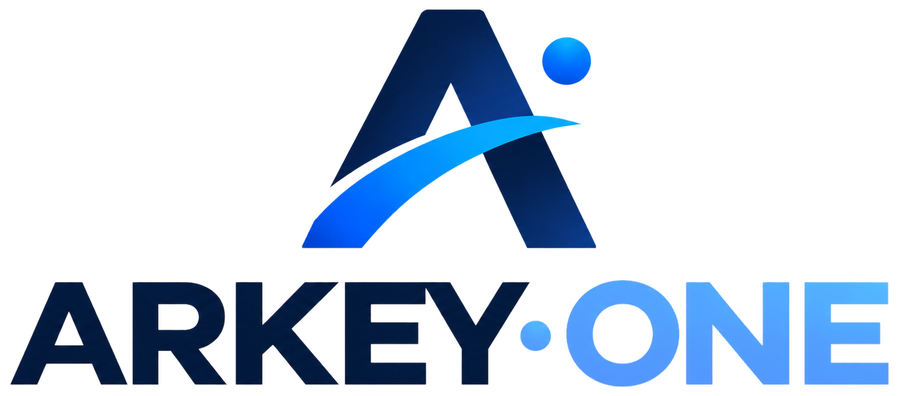
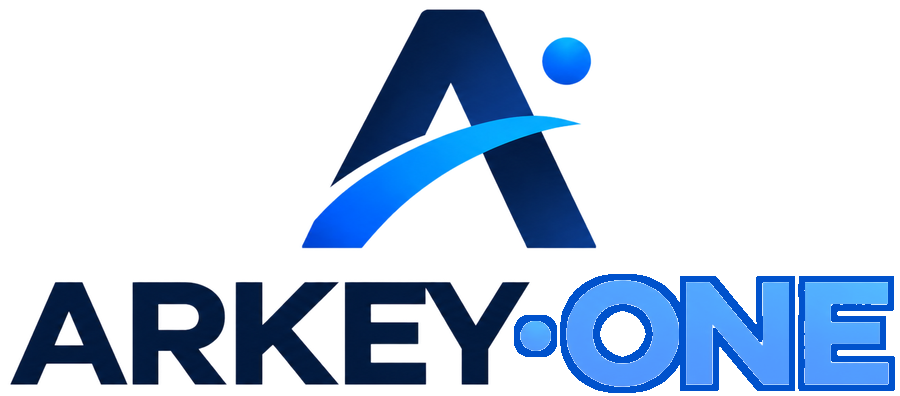
Login: contorno azul a ONE, centrar contenido en web/móvil, limpiar campos tras crear cuenta
- arkeyone-lockup.png: se agrega un contorno azul fuerte (#0052CC,
  ~6px a resolución fuente) alrededor de "ONE" y el separador --
  probado contra fondos claros y oscuros, se lee bien en ambos casos
  sin depender de reforzar el scrim.
- Web: el bloque de marca (headline/features/cita/pie) ahora se centra
  horizontalmente igual que el logo, en vez de quedar left-aligned
  mientras el logo estaba centrado.
- Móvil: el bloque logo+tarjeta+pie ahora se centra verticalmente como
  una unidad (antes el logo se anclaba arriba con mt-10 y el pie se
  empujaba al fondo con mt-auto); el espacio entre el logo/eslogan y
  la tarjeta se recorta (mb-6 -> mb-4).
- Crear cuenta: al crearse la cuenta con éxito, se limpian los campos
  de correo/contraseña/confirmar en vez de dejarlos con lo capturado.

Changed region(s): [[0.56, 0.6667, 0.9956, 1.0]]

diff --git a/src/components/auth/LoginWeb.jsx b/src/components/auth/LoginWeb.jsx
@@ -54,7 +54,7 @@ export default function LoginWeb({ onCreateAccount, onForgotPassword }) {
 
       {/* ---- Panel de marca ---- */}
       <div className="hidden lg:flex flex-col relative z-10 flex-[1.3] min-w-[420px] px-14 py-11 text-white">
-        <div className="relative z-10 flex flex-col justify-center h-full">
+        <div className="relative z-10 flex flex-col items-center justify-center h-full">
           <div className="w-full max-w-[420px] flex flex-col items-center mb-7">
             <ArkeyOneLogo width={230} />
             <p className="mt-2.5 text-base font-medium text-white/90 text-center">
@@ -62,7 +62,7 @@ export default function LoginWeb({ onCreateAccount, onForgotPassword }) {
             </p>
           </div>
 
-          <h2 className="text-[36px] leading-tight font-bold max-w-[420px] mb-6 text-white drop-shadow-sm">
+          <h2 className="text-[36px] leading-tight font-bold max-w-[420px] mb-6 text-white text-center drop-shadow-sm">
             Todo en un solo lugar,<br />
             para una vida con más{' '}
             <span style={{ color: '#7cc4ff' }}>claridad.</span>
@@ -77,11 +77,11 @@ export default function LoginWeb({ onCreateAccount, onForgotPassword }) {
             ))}
           </ul>
 
-          <p className="text-[17px] italic font-medium text-white drop-shadow-sm mt-7">
+          <p className="text-[17px] italic font-medium text-white text-center drop-shadow-sm mt-7">
             "Organiza hoy, vive un mejor mañana."
           </p>
 
-          <p className="text-[10.5px] tracking-[.14em] font-semibold text-white/70 mt-5">
+          <p className="text-[10.5px] tracking-[.14em] font-semibold text-white/70 text-center mt-5">
             TECNOLOGÍA PARA UNA VIDA CON SENTIDO
           </p>
         </div>

diff --git a/src/components/auth/LoginMobile.jsx b/src/components/auth/LoginMobile.jsx
@@ -86,10 +86,10 @@ export default function LoginMobile({ platform: platformProp, onCreateAccount, o
       </div>
 
       <div
-        className="relative z-10 flex-1 flex flex-col px-6"
-        style={{ paddingTop: 'calc(18px + env(safe-area-inset-top, 0px))' }}
+        className="relative z-10 flex-1 flex flex-col justify-center px-6"
+        style={{ paddingTop: 'calc(18px + env(safe-area-inset-top, 0px))', paddingBottom: 'calc(18px + env(safe-area-inset-bottom, 0px))' }}
       >
-        <div className="flex flex-col items-center text-center mt-10 mb-6">
+        <div className="flex flex-col items-center text-center mb-4">
           <ArkeyOneLogo width={195} />
           <p className="text-sm font-medium text-white/90 mt-2.5 drop-shadow-sm">Ordena tu mundo, mejora tu vida.</p>
         </div>
@@ -230,7 +230,7 @@ export default function LoginMobile({ platform: platformProp, onCreateAccount, o
           </p>
         </form>
 
-        <div className="mt-auto text-center py-4" style={{ paddingBottom: 'calc(16px + env(safe-area-inset-bottom, 0px))' }}>
+        <div className="text-center mt-6">
           <span className="text-[12.5px] font-semibold text-white drop-shadow-sm">Más orden. Más vida.</span>
           <div className="w-[34px] h-[2.5px] rounded mt-2 mx-auto" style={{ background: '#60A5FA' }} />
         </div>

diff --git a/src/App.jsx b/src/App.jsx
@@ -1216,6 +1216,9 @@ function CrearCuentaScreen({ onVolver }) {
       return;
     }
     setAviso("Cuenta creada. Revisa tu correo para confirmarla antes de entrar.");
+    setEmail("");
+    setPassword("");
+    setConfirmPassword("");
   };
 
   return (
